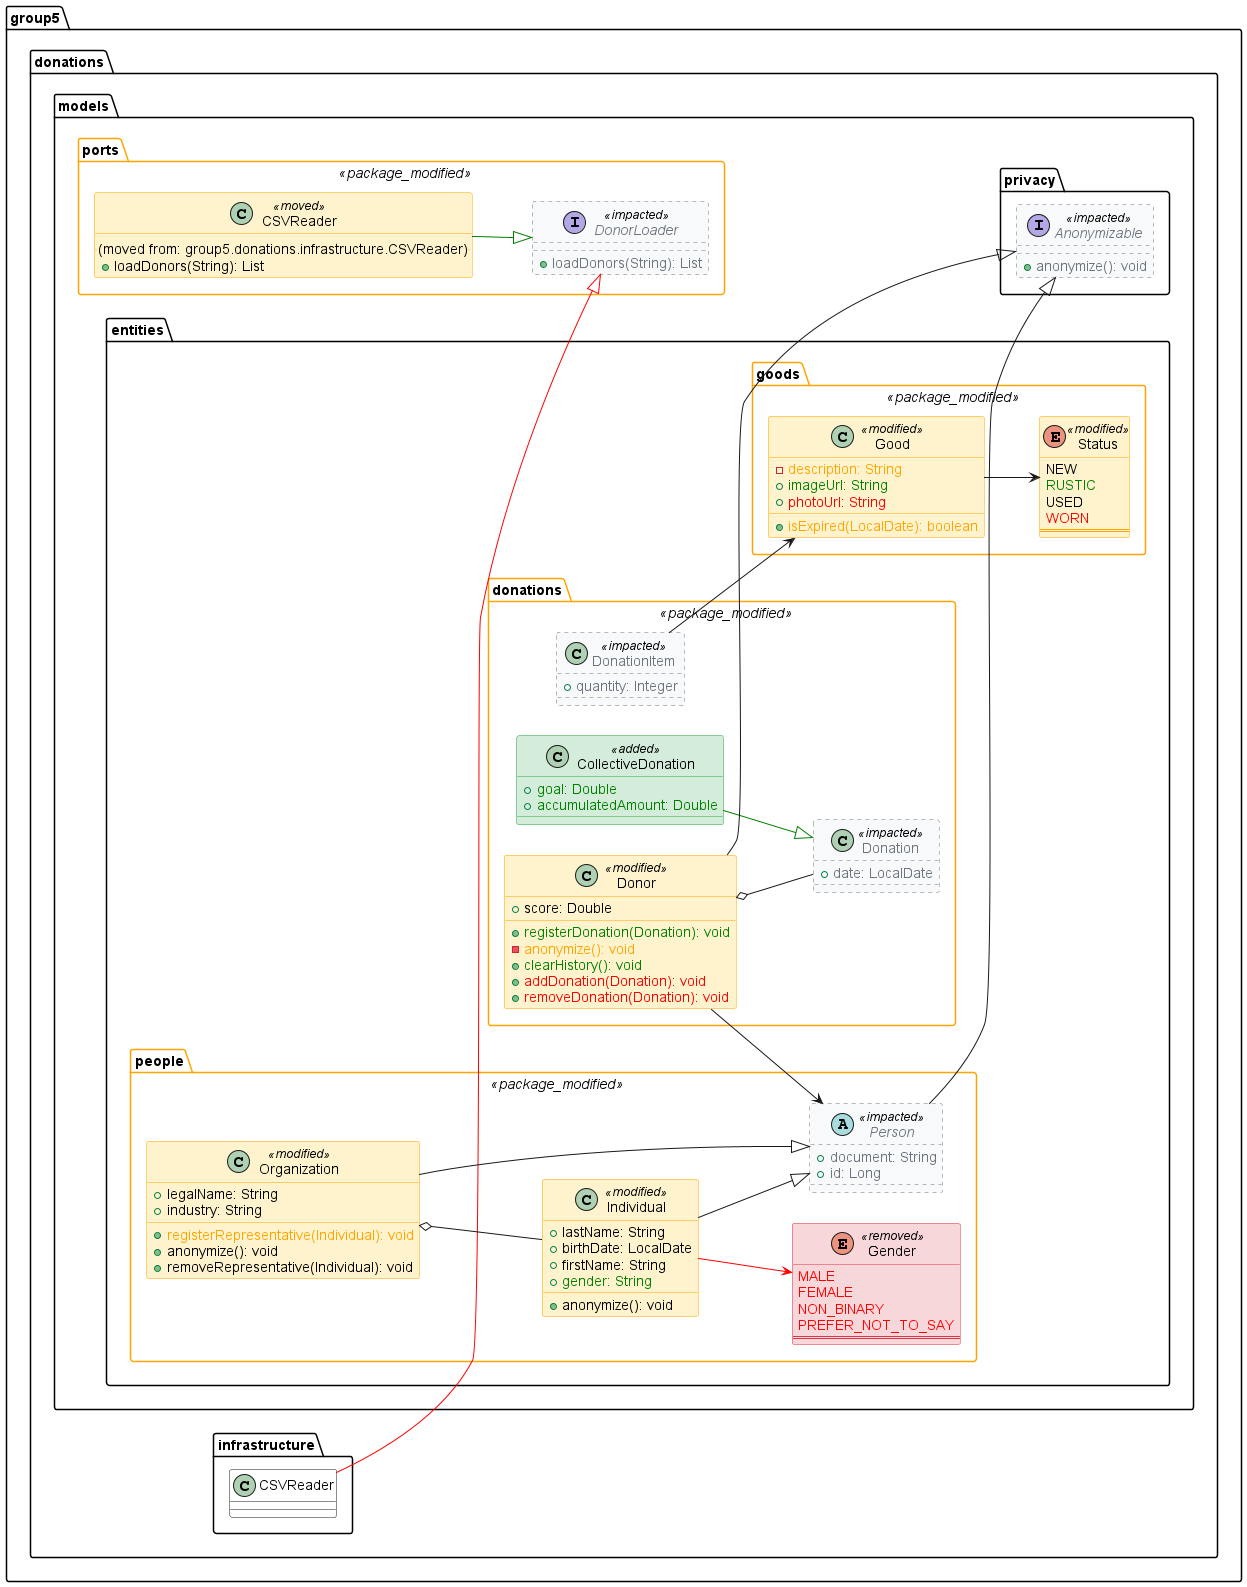
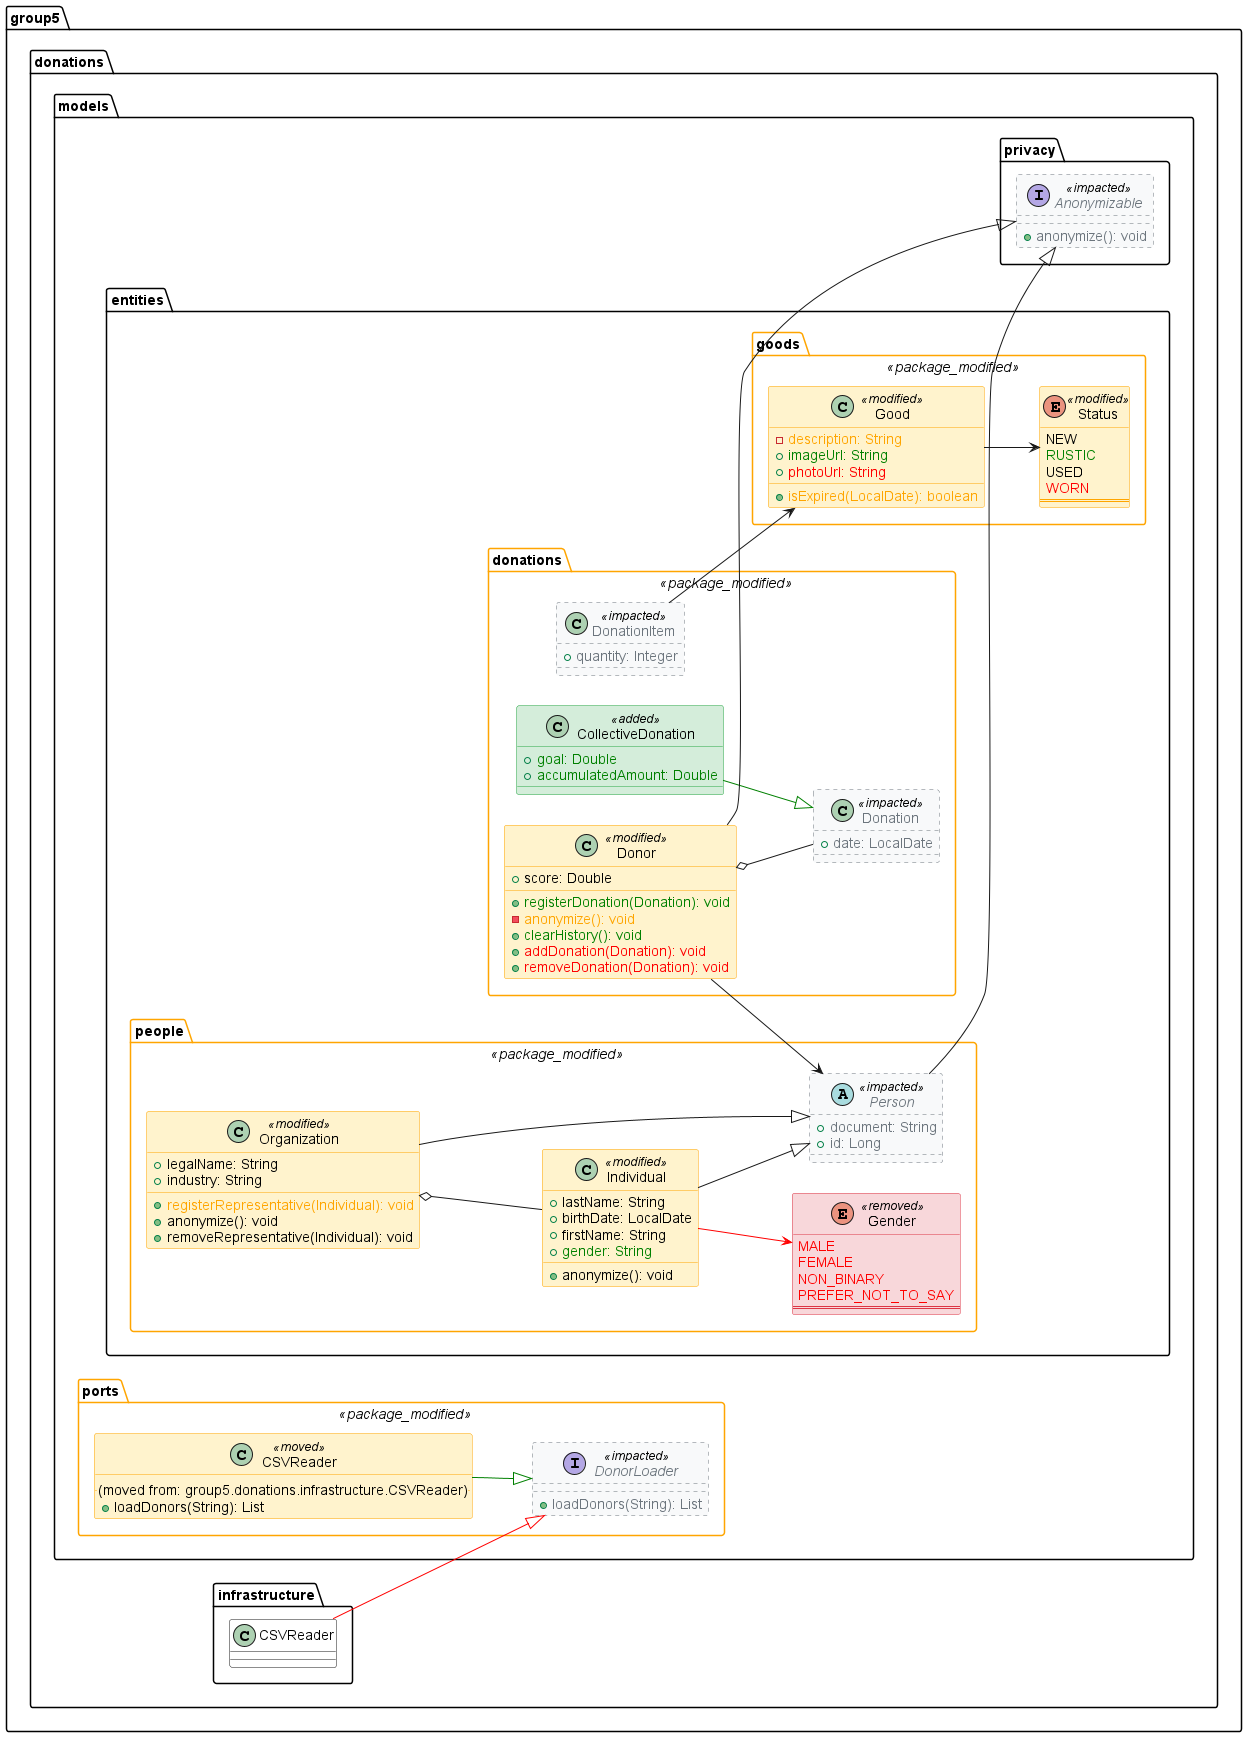
feat(parser): validacion semantica estatica - scoping, binding y control de errores

diff --git a/src/parser/lark_parser.py b/src/parser/lark_parser.py
@@ -402,24 +402,66 @@ class LarkPlantUMLParser:
         clean_text = "@startuml\n" + "\n".join(clean_lines) + "\n@enduml"
         return self._parser.parse(clean_text)
 
+    def _validate_relations(self, model: UMLModel) -> UMLModel:
+        """Valida que los extremos de cada relación referencien clases existentes."""
+        class_names = {c.name for c in model.classes}
+        valid_relations = []
+        for rel in model.relations:
+            if rel.source in class_names and rel.target in class_names:
+                valid_relations.append(rel)
+            else:
+                import logging
+                logging.getLogger(__name__).warning(
+                    f"Relación {rel.source} -> {rel.target}: "
+                    f"al menos un extremo no existe en el modelo"
+                )
+                valid_relations.append(rel)
+        return UMLModel(
+            module_name=model.module_name,
+            classes=model.classes,
+            relations=tuple(valid_relations),
+            source_hash=model.source_hash,
+        )
+
     def parse(self, raw_text: str) -> UMLModel:
         """Pipeline completo: preprocesado -> CST -> AST -> UMLModel normalizado."""
+        import logging
+        from lark.exceptions import UnexpectedToken, UnexpectedCharacters
+        logger = logging.getLogger(__name__)
+
         if not self.source_hash:
             self.source_hash = hashlib.sha256(raw_text.encode('utf-8')).hexdigest()
             
-        tree = self.parse_tree(raw_text)
-        classes, relations = PlantUMLTransformer().transform(tree)
-        
-        # Normalización determinista (sorting canónico)
-        sorted_classes = tuple(sorted(classes, key=lambda c: c.name))
-        sorted_relations = tuple(sorted(
-            relations, key=lambda r: (r.source, r.target, r.relation_type)
-        ))
-        
-        return UMLModel(
-            module_name=self.module_name,
-            classes=sorted_classes,
-            relations=sorted_relations,
-            source_hash=self.source_hash,
-        )
+        try:
+            tree = self.parse_tree(raw_text)
+            classes, relations = PlantUMLTransformer().transform(tree)
+            
+            # Normalización determinista (sorting canónico)
+            sorted_classes = tuple(sorted(classes, key=lambda c: c.name))
+            sorted_relations = tuple(sorted(
+                relations, key=lambda r: (r.source, r.target, r.relation_type)
+            ))
+            
+            model = UMLModel(
+                module_name=self.module_name,
+                classes=sorted_classes,
+                relations=sorted_relations,
+                source_hash=self.source_hash,
+            )
+            return self._validate_relations(model)
+        except (UnexpectedToken, UnexpectedCharacters) as e:
+            logger.error(
+                f"Error sintáctico en módulo '{self.module_name}': "
+                f"Línea {getattr(e, 'line', '?')}, Columna {getattr(e, 'column', '?')}. "
+                f"Token inesperado: {getattr(e, 'token', e)!r}. "
+                f"Tokens esperados: {getattr(e, 'expected', '?')}"
+            )
+            # Degradación elegante: retornar modelo vacío (P-05)
+            return UMLModel(
+                module_name=self.module_name,
+                classes=(),
+                relations=(),
+                source_hash=self.source_hash,
+            )
+
 

diff --git a/tests/parser/test_lark_validation.py b/tests/parser/test_lark_validation.py
@@ -1,0 +1,55 @@
+import pytest
+import logging
+from parser.lark_parser import LarkPlantUMLParser
+from domain.models import UMLModel
+
+def test_package_propagation_simple():
+    parser = LarkPlantUMLParser("test")
+    model = parser.parse("""
+    package "com.pkg" {
+        class User {
+        }
+    }
+    """)
+    assert len(model.classes) == 1
+    assert model.classes[0].name == "com.pkg.User"
+
+def test_relationship_with_internal_class():
+    parser = LarkPlantUMLParser("test")
+    model = parser.parse("""
+    class User {}
+    User --> Order
+    """)
+    assert len(model.relations) == 1
+    # Should keep the relation
+    assert model.relations[0].source == "User"
+
+def test_relationship_with_external_class(caplog):
+    parser = LarkPlantUMLParser("test")
+    with caplog.at_level(logging.WARNING):
+        model = parser.parse("""
+        class Local {}
+        External --> Local
+        """)
+    assert len(model.relations) == 1
+    # Check that warning was logged
+    warnings = [r.message for r in caplog.records if r.levelno == logging.WARNING]
+    assert any("al menos un extremo no existe" in w for w in warnings)
+
+def test_syntax_error_graceful_degradation(caplog):
+    parser = LarkPlantUMLParser("test")
+    with caplog.at_level(logging.ERROR):
+        model = parser.parse("""
+        class User {
+            broken syntax line
+        }
+        """)
+    assert len(model.classes) == 0
+    errors = [r.message for r in caplog.records if r.levelno == logging.ERROR]
+    assert any("Error sintáctico" in e for e in errors)
+
+def test_empty_file():
+    parser = LarkPlantUMLParser("test")
+    model = parser.parse("")
+    assert len(model.classes) == 0
+    assert len(model.relations) == 0